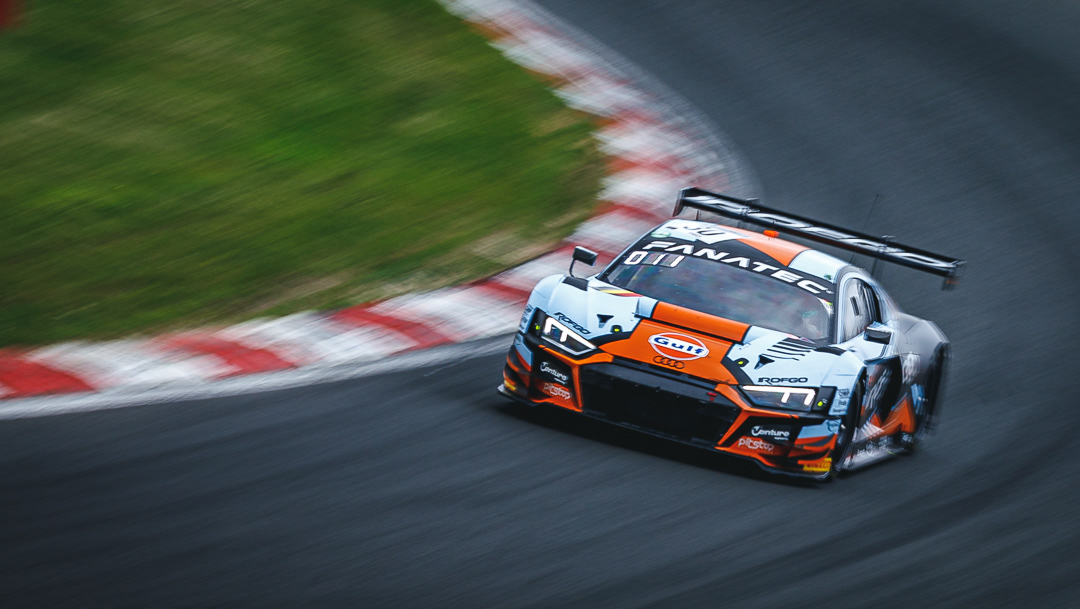
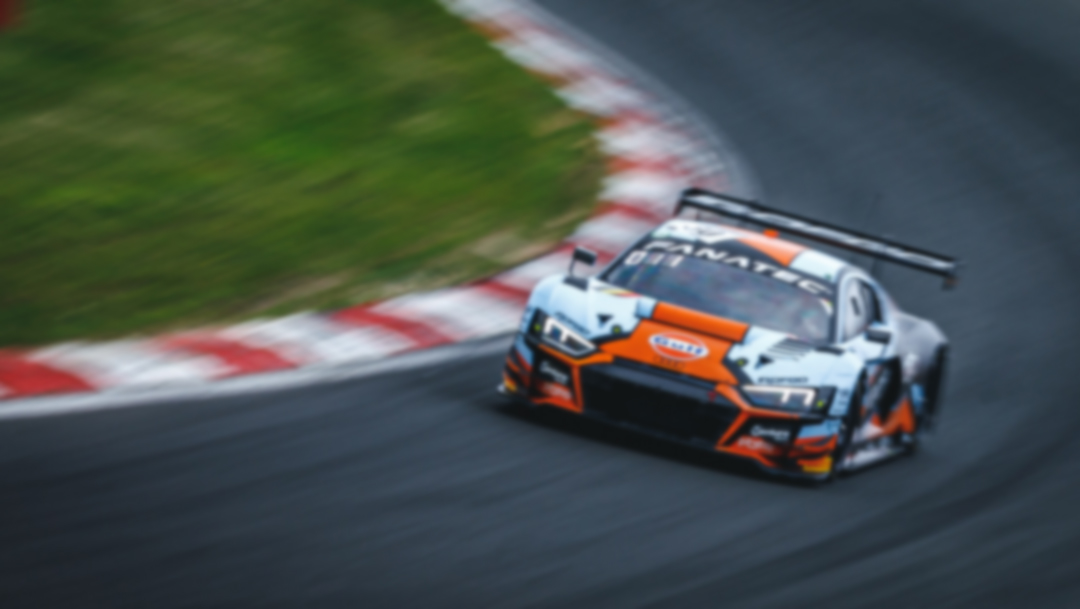
Organizing big screens

Changed region(s): [[0.4583, 0.312, 0.8861, 0.78]]

diff --git a/style.css b/style.css
@@ -20,6 +20,29 @@
     --Lh-sub: 0.8rem;
 }
 
+
+@media screen and (min-width: 800px) {
+:root {
+    --ff-website: 'Roboto';
+    --clr-text: white;
+
+
+    --main-color: #DF500A;
+    --accent-color: #FF8242;
+
+    --fs-logo: 2.5rem;
+    --fs-nav: 1rem;
+    --fs-maintitle: 4.5rem;
+    --fs-subtext: 1.8rem;
+    --fs-button: 0.8rem;
+
+    --fw-big: 700;
+    --fw-medium: 500;
+
+    --Lh-main: 1.3rem;
+    --Lh-sub: 0.8rem;
+}
+
 *, *:before, *::after {box-sizing: inherit};
 
 html {
@@ -28,26 +51,6 @@ html {
     padding: 0;
     backdrop-filter: blur(50px);
 }
-
-
-.body:before {
-    content: "";
-    position: fixed;
-    left: 0;
-    right: 0;
-    z-index: -1;
-    
-    display: block;
-    background-image: urlurl(/images/racingcar.png);;
-    width: 1200px;
-    height: 800px;
-    
-    -webkit-filter: blur(5px);
-    -moz-filter: blur(5px);
-    -o-filter: blur(5px);
-    -ms-filter: blur(5px);
-    filter: blur(5px);
-  }
 
 .bg-image {
     background-image: url(/images/racingcar.png);
@@ -62,7 +65,6 @@ html {
 
 body {
 
-  
     /* background */
 
     background-image: url(/images/racingcar.png);
@@ -146,10 +148,14 @@ ul, a {
     color: #B1B1B1;
 }
 
+nav a {
+    opacity: 0;
+    transition: opacity 100ms ease-in-out;
+}
+
 nav span {
     border: 1px solid #B1B1B1;
     opacity: 0.4;
-   
     width: 45%;
 }
 
@@ -161,6 +167,11 @@ nav li {
 
 .nav-switch:checked ~ nav {
     transform: scale(1, 1);
+}
+
+.nav-switch:checked ~ nav a {
+    opacity: 1;
+    transition: opacity 250ms ease-in-out 250ms;
 }
 
 .nav-switch {
@@ -216,9 +227,10 @@ nav li {
 
 .container p {
     font-size: var(--fs-subtext);
-    width: 75%;
+    width: 65%;
     margin-block: 1rem;
     font-weight: var(--fw-medium);
+    backdrop-filter: blur(1px);
 }
 
 .btt {
@@ -246,4 +258,70 @@ button {
     color: white;
     font-size: var(--fs-button);
     border: 0;
+}
+
+@media screen and (min-width: 800px) {
+
+    html {
+        display: flex;
+        flex-direction: column;
+        justify-items: center;
+    }
+
+    body {
+        display: flex;
+        flex-direction: column;
+        align-items: center;
+    }
+
+    .container {
+        margin-top: -1em;
+        margin-right: 8em;
+    }
+
+    .container h1 {
+        width: 65%;
+    }
+
+    .container p {
+        width: 35%;
+    }
+
+    .nav-switch-label {
+        display: none;
+    }
+
+    header {
+        margin-left: 350px;
+        display: flex;
+        flex-direction: row;
+        gap: 60em;
+        align-items: center;
+        justify-content: flex-start;
+        top: 0;
+        font-size: var(-);
+    }
+
+    nav .line {
+        display: none;
+    }
+
+    ul, a{
+        color: white;
+    }
+
+    nav {
+        all: unset;
+        display: flex;
+        justify-content: flex-end;
+        align-items: center;
+    }
+
+    nav ul {
+        display: flex;
+        flex-direction: row;
+        justify-content: flex-end;
+        gap: 40px;
+    }
+
 }
